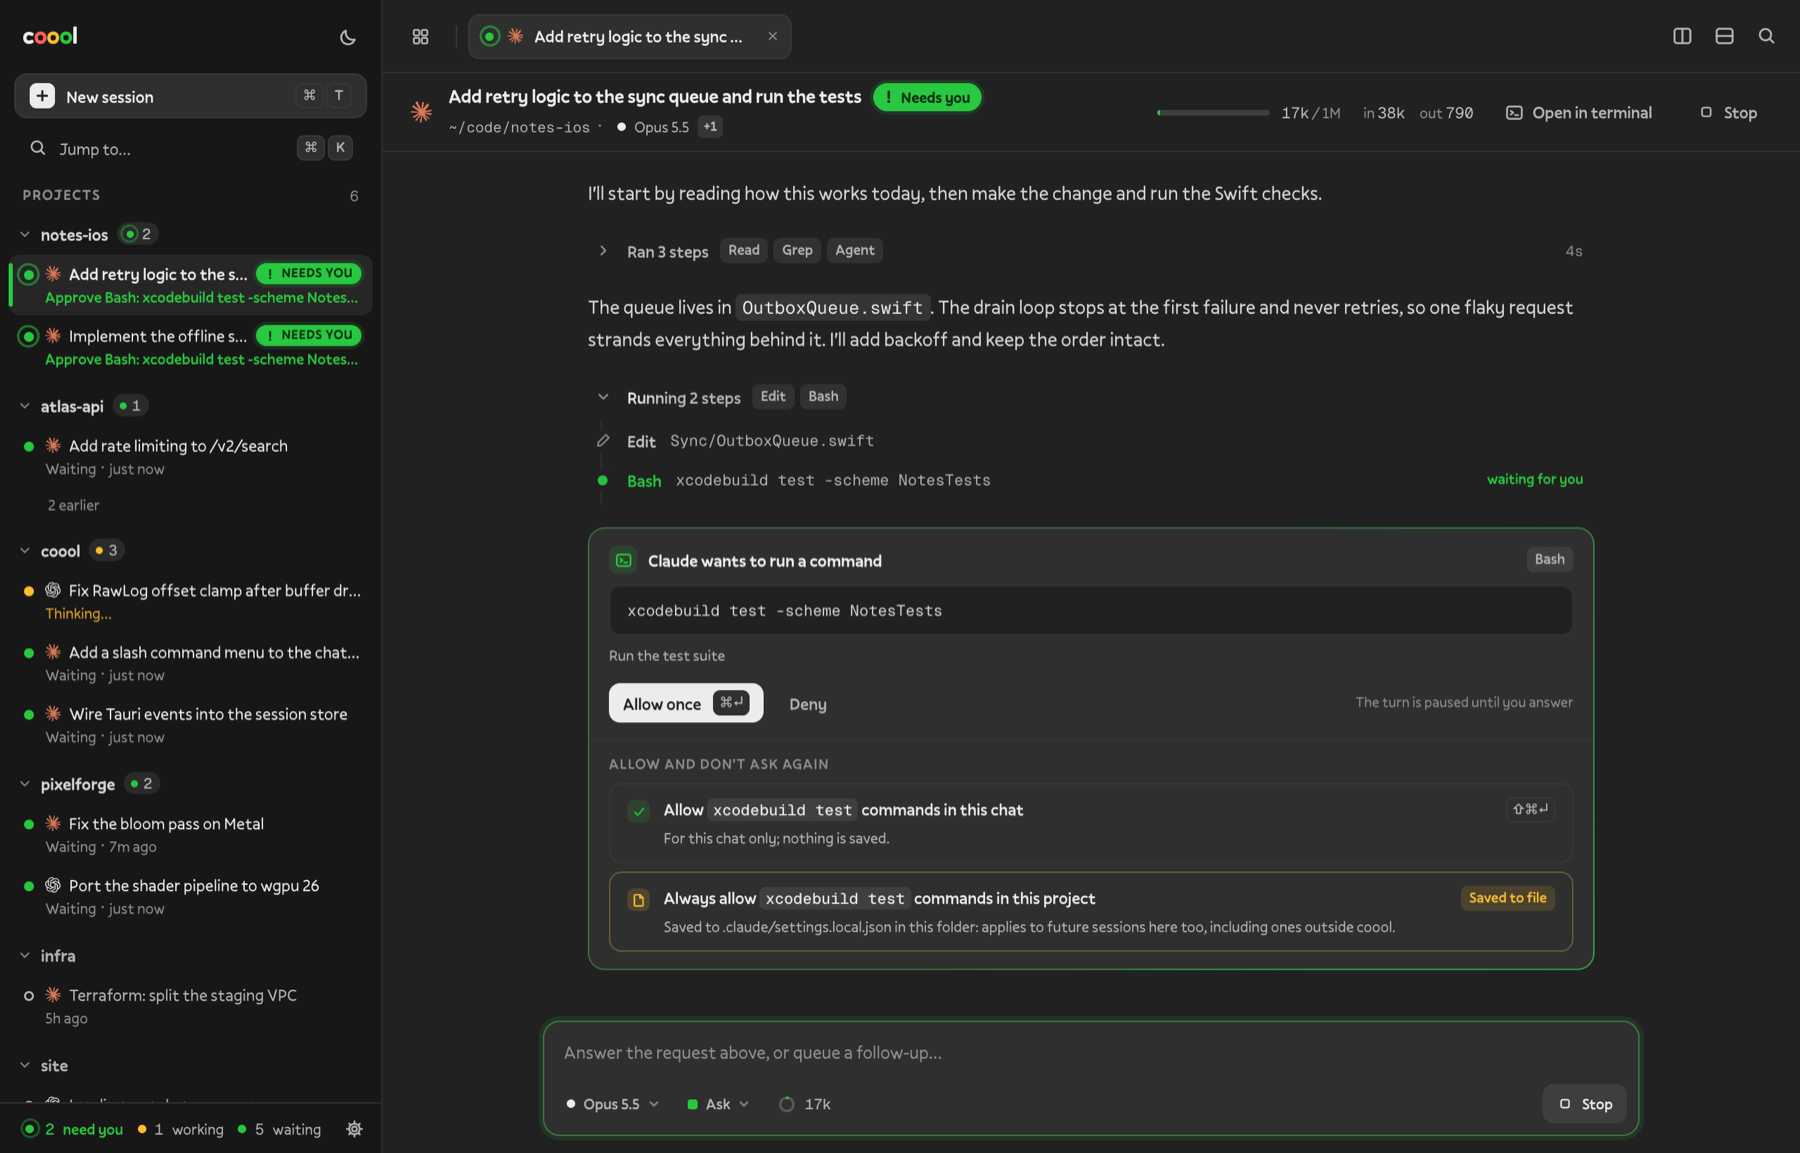
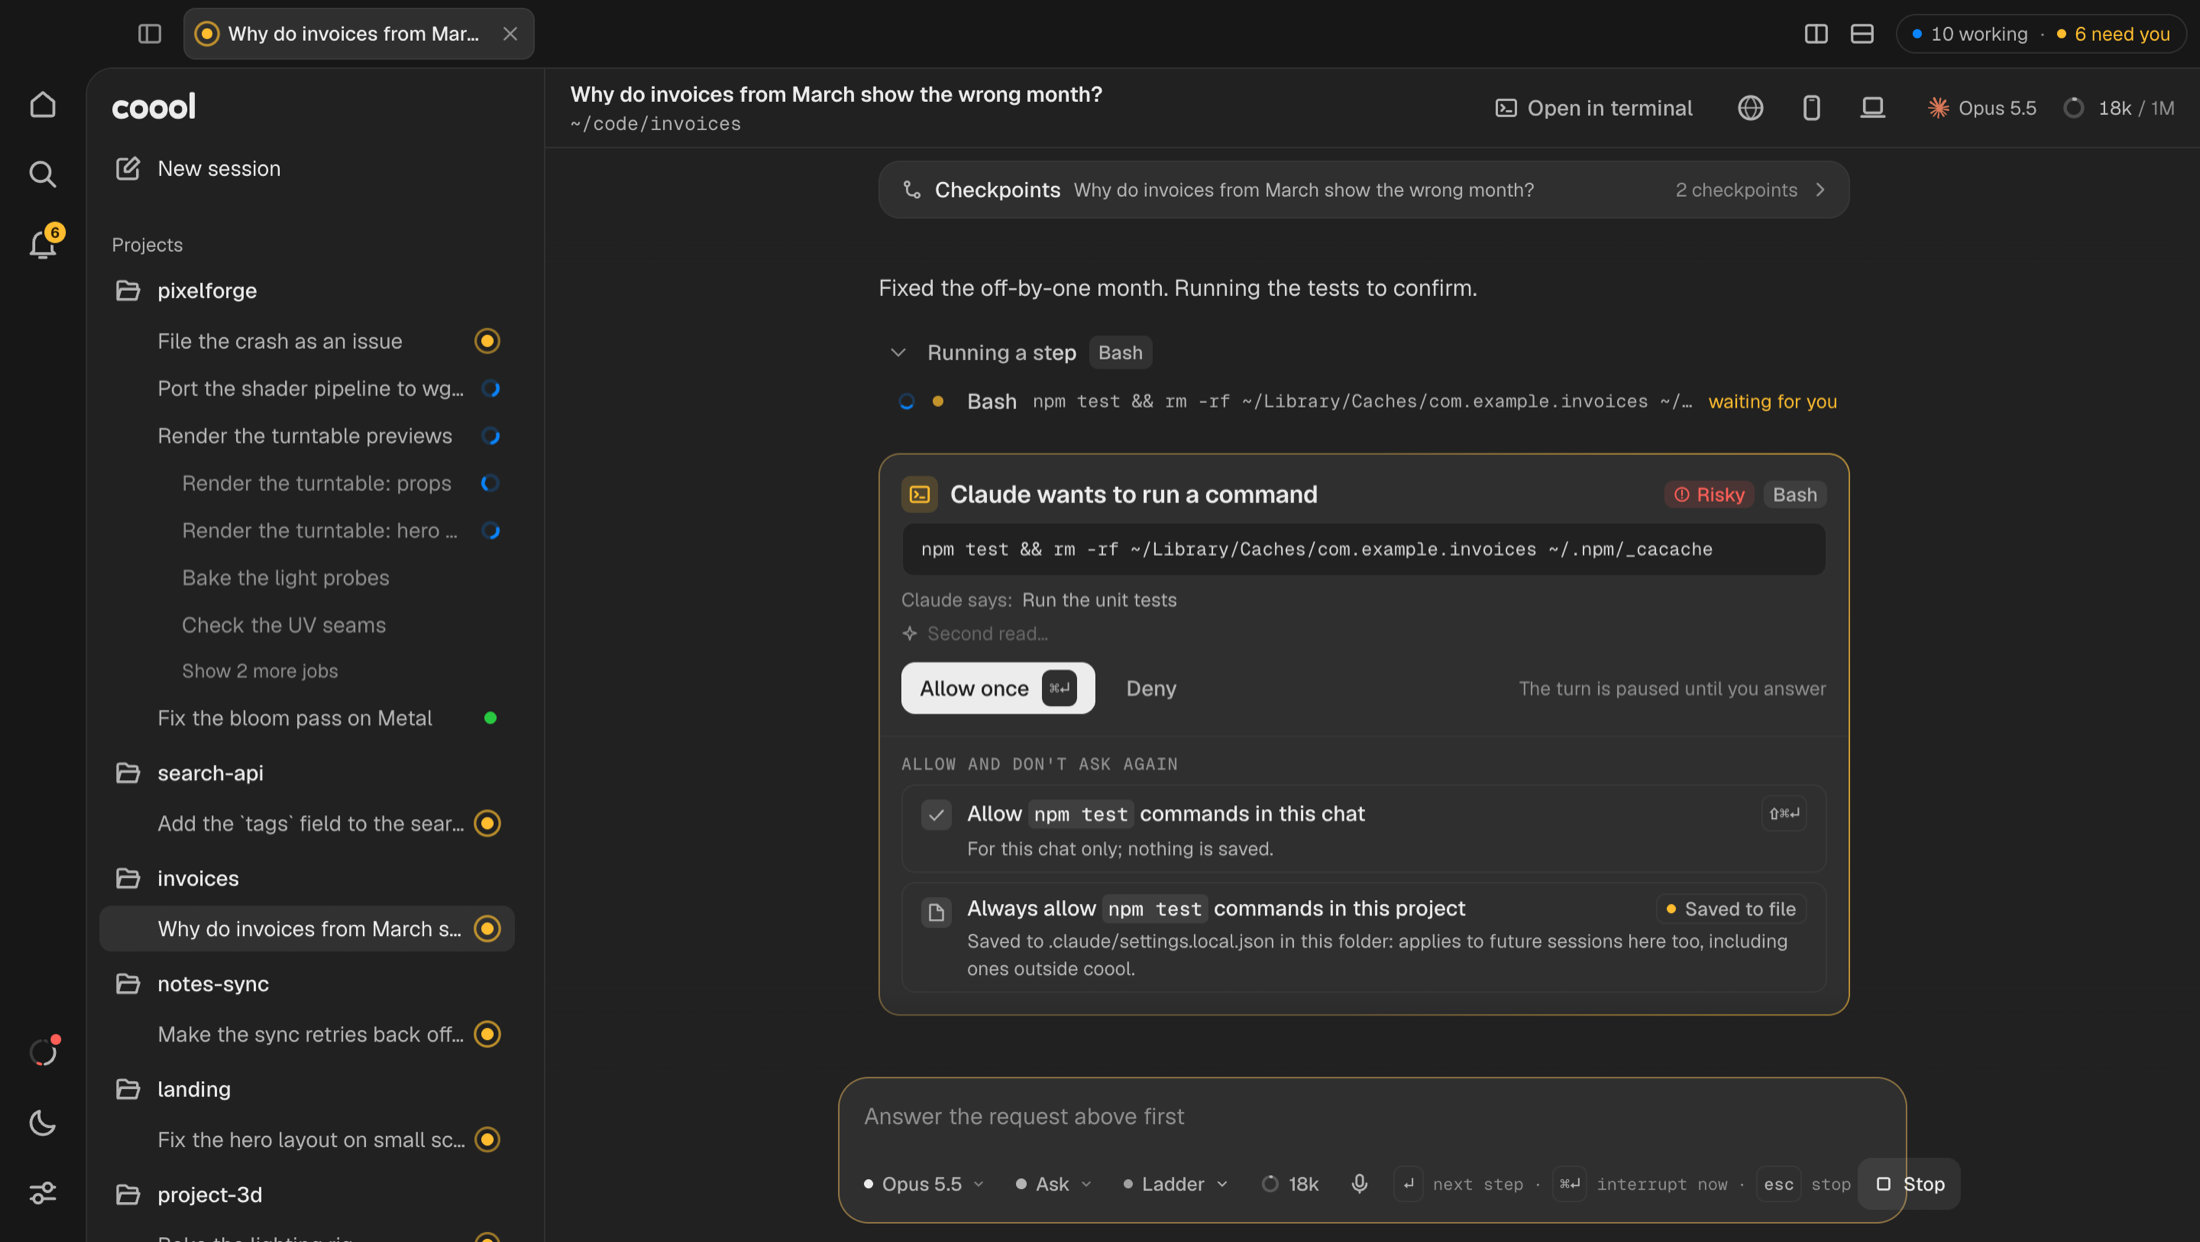
README screenshots retaken from the current demo build; demo data no longer names a real website
Claude-Session: https://claude.ai/code/session_01BkEprThDBgWFcwjcWLFnKW

diff --git a/app/src/lib/mockChat.ts b/app/src/lib/mockChat.ts
@@ -1042,7 +1042,7 @@ export class MockChat {
   /** A device step the gate asks about first, shaped like device/gate.rs's request (tool "Browser", `coool_device` input). */
   private async deviceAsk(gen: number) {
     const D = (t: string) => (this.provider === "codex" ? `coool-device.${t}` : `mcp__coool-device__${t}`);
-    const url = "https://www.affectui.com/login?next=%2Fcomponents";
+    const url = "https://staging.fieldnotes.example/login?next=%2Fdashboard";
     await this.say("I'll open the sign-in page in the Browser panel and check the form's error states.", gen, {
       think: "The form lives behind /login. The Browser panel isn't allowed in this chat yet, so coool will ask before the first step.",
     });

diff --git a/app/src/lib/mock.ts b/app/src/lib/mock.ts
@@ -1335,7 +1335,7 @@ export function mockBackend(): Backend {
   if (location.search.includes("needs=demo")) {
     const cq = newChat("claude", `${HOME}/code/atlas`, {}, 0);
     setTimeout(() => cq.send("Which retry approach should I choose? ask me"), 1600);
-    const cd = newChat("claude", `${HOME}/code/affect-study`, {}, 0);
+    const cd = newChat("claude", `${HOME}/code/fieldnotes-web`, {}, 0);
     setTimeout(() => cd.send("Check the sign-in page's error states in the Browser (device gate)"), 1900);
     const cp = newChat("claude", `${HOME}/code/notes-ios`, {}, 0);
     setTimeout(() => cp.send("Plan the retry change first (plan mode)"), 2200);

diff --git a/README.md b/README.md
@@ -6,8 +6,8 @@
 
 | | |
 |---|---|
-| ![Chat with an approval card](docs/media/approval-dark.png) | ![Slash command menu](docs/media/slash-menu-dark.png) |
-| ![Split panes](docs/media/split-dark.png) | ![Light theme](docs/media/mission-light.png) |
+| ![A permission request, with what it does and a risk tag](docs/media/approval-dark.png) | ![The Needs-you page](docs/media/needs-dark.png) |
+| ![An agent driving the iPhone simulator](docs/media/device-dark.png) | ![Light theme](docs/media/mission-light.png) |
 
 Two frontends share one Rust core:
 
